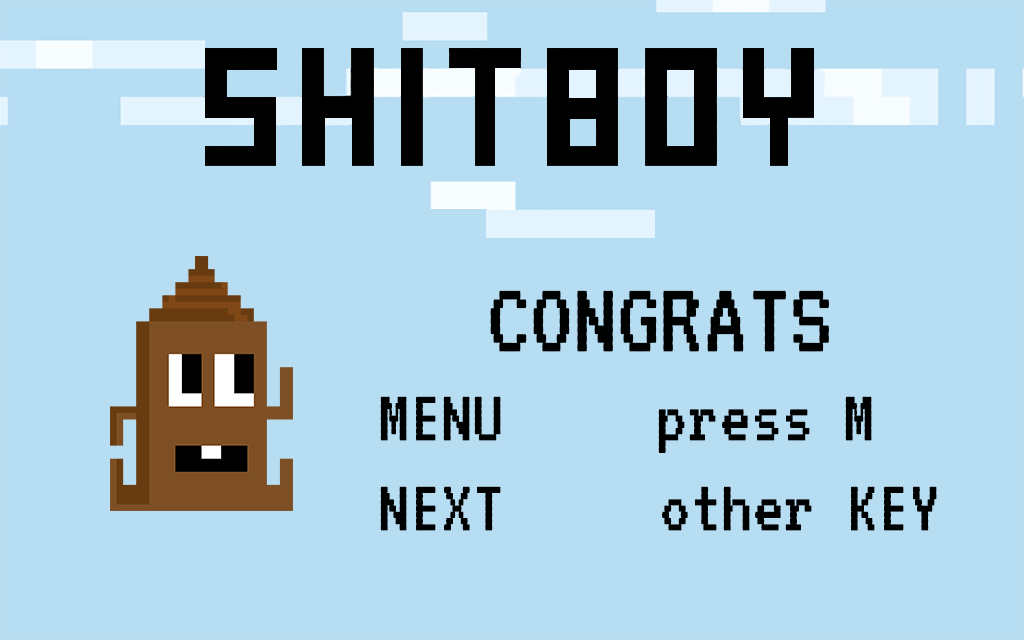
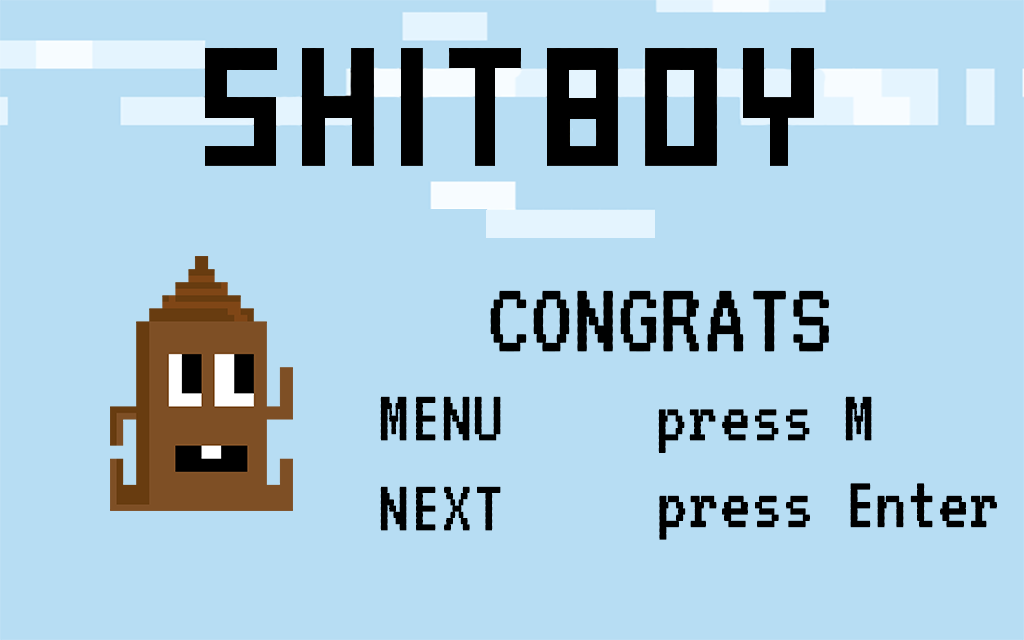
Pause funktioniert wieder :) auch in Level 2

Changed region(s): [[0.625, 0.75, 0.9688, 0.8438]]

diff --git a/js/script.js b/js/script.js
@@ -1,22 +1,33 @@
 
 
-    var vid = document.getElementById('Intro');
-     var vids = document.getElementById('shitboy');
 
+    var vid = document.getElementById('Intro');
+    var vids = document.getElementById('shitboy');
 
     document.onkeydown = function(event) {
         if (event.keyCode == 80 && gameStarted) {
+
             if(game.paused){
                 game.paused = false;
                 document.getElementById('pause').style.visibility = 'hidden';
             }else if (game.paused == false){
+                
                 document.getElementById('pause').style.visibility = 'visible';
                 game.paused = true;
             }
         }
         if(event.keyCode == 77){
             location.reload();
-        }    
+        }else if(event.keyCode == 38 && levelFinished){
+
+        }else if(event.keyCode == 37 && levelFinished){
+
+        }else if(event.keyCode == 39 && levelFinished){
+
+        }else if(event.keyCode == 13 && levelFinished){
+            document.getElementById('levelwechsel').style.visibility="hidden";
+            game.paused = false;            
+        }   
     }
 
     function einblenden() { 
@@ -31,20 +42,6 @@
     function levelwechsel(){
         document.getElementById('levelwechsel').style.visibility="visible";
         game.paused = true; 
-        document.onkeydown = function(event){
-            if(event.keyCode == 77){
-                location.reload();
-            }else if(event.keyCode == 38){
-
-            }else if(event.keyCode == 37){
-
-            }else if(event.keyCode == 39){
-
-            }else{
-                document.getElementById('levelwechsel').style.visibility="hidden";
-                game.paused = false;
-            }
-        }
     }
 
     function video(){

diff --git a/index.html b/index.html
@@ -13,8 +13,6 @@
         <script type="text/javascript" src="js/Menu.js"></script>
         <script type="text/javascript" src="js/LevelMenu1.js"></script>
         <script type="text/javascript" src="js/LevelMenu2.js"></script>
-        <script type="text/javascript" src="js/Pause.js"></script>
-        <script type="text/javascript" src="js/Levelwechsel.js"></script>
         <link rel="stylesheet" type="text/css" href="css/main.css">
         <link href='http://fonts.googleapis.com/css?family=VT323' rel='stylesheet' type='text/css'>
         <link href='assets/fonts/VT323-Regular.ttf' rel='stylesheet' type='text/css'>

diff --git a/js/Game.js b/js/Game.js
@@ -3,6 +3,7 @@ var timeEnd = 0;
 var background3;
 var MainGame = MainGame || {};
 var gameStarted = false;
+var levelFinished = false;
 
 //title screen
 MainGame.Game = function(){};
@@ -726,6 +727,7 @@ MainGame.Game.prototype = {
     },
      //find objects in a Tiled layer that containt a property called "type" equal to a certain value
     startNextLevel: function(Level) {
+        levelFinished = true;
         levelwechsel();
         bgSound1Stop();
         winSound();
